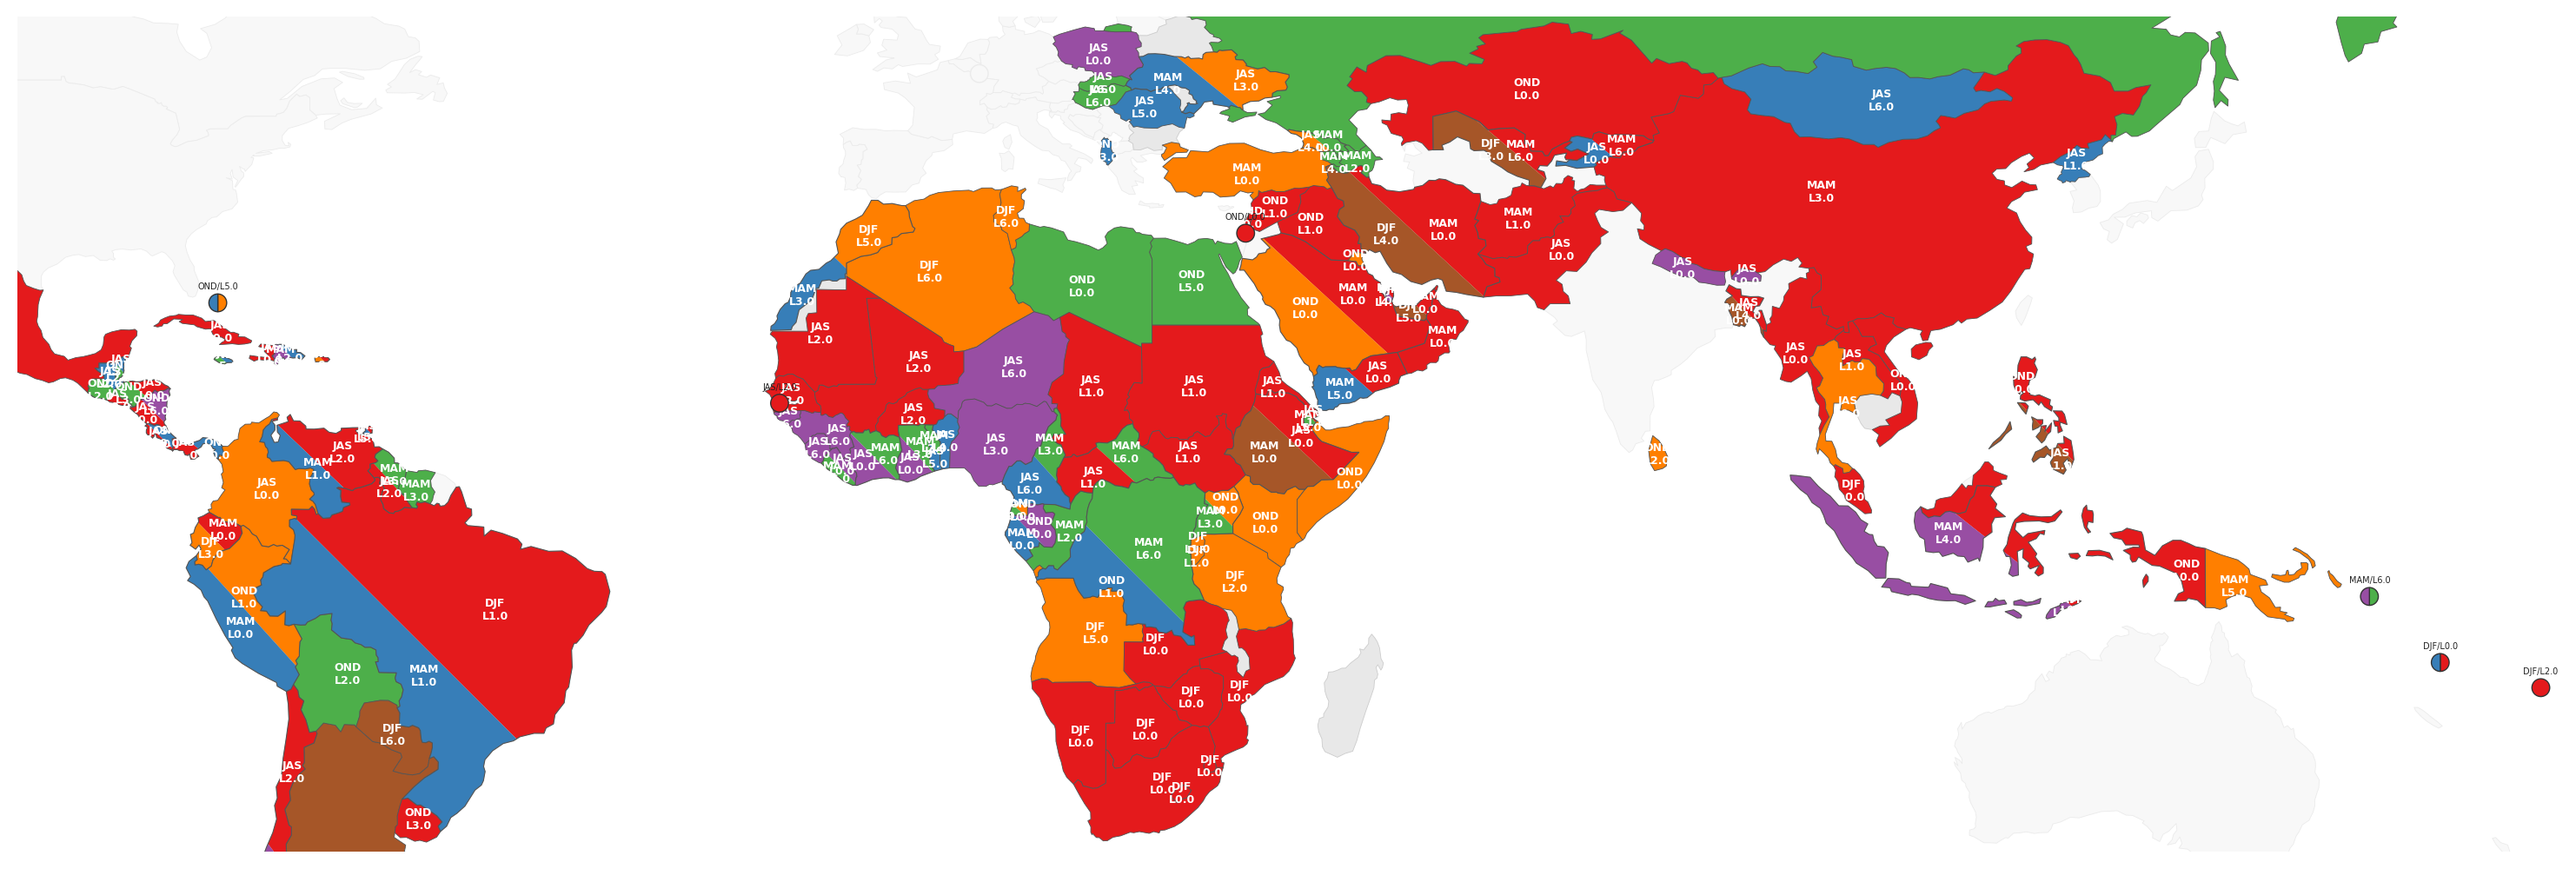
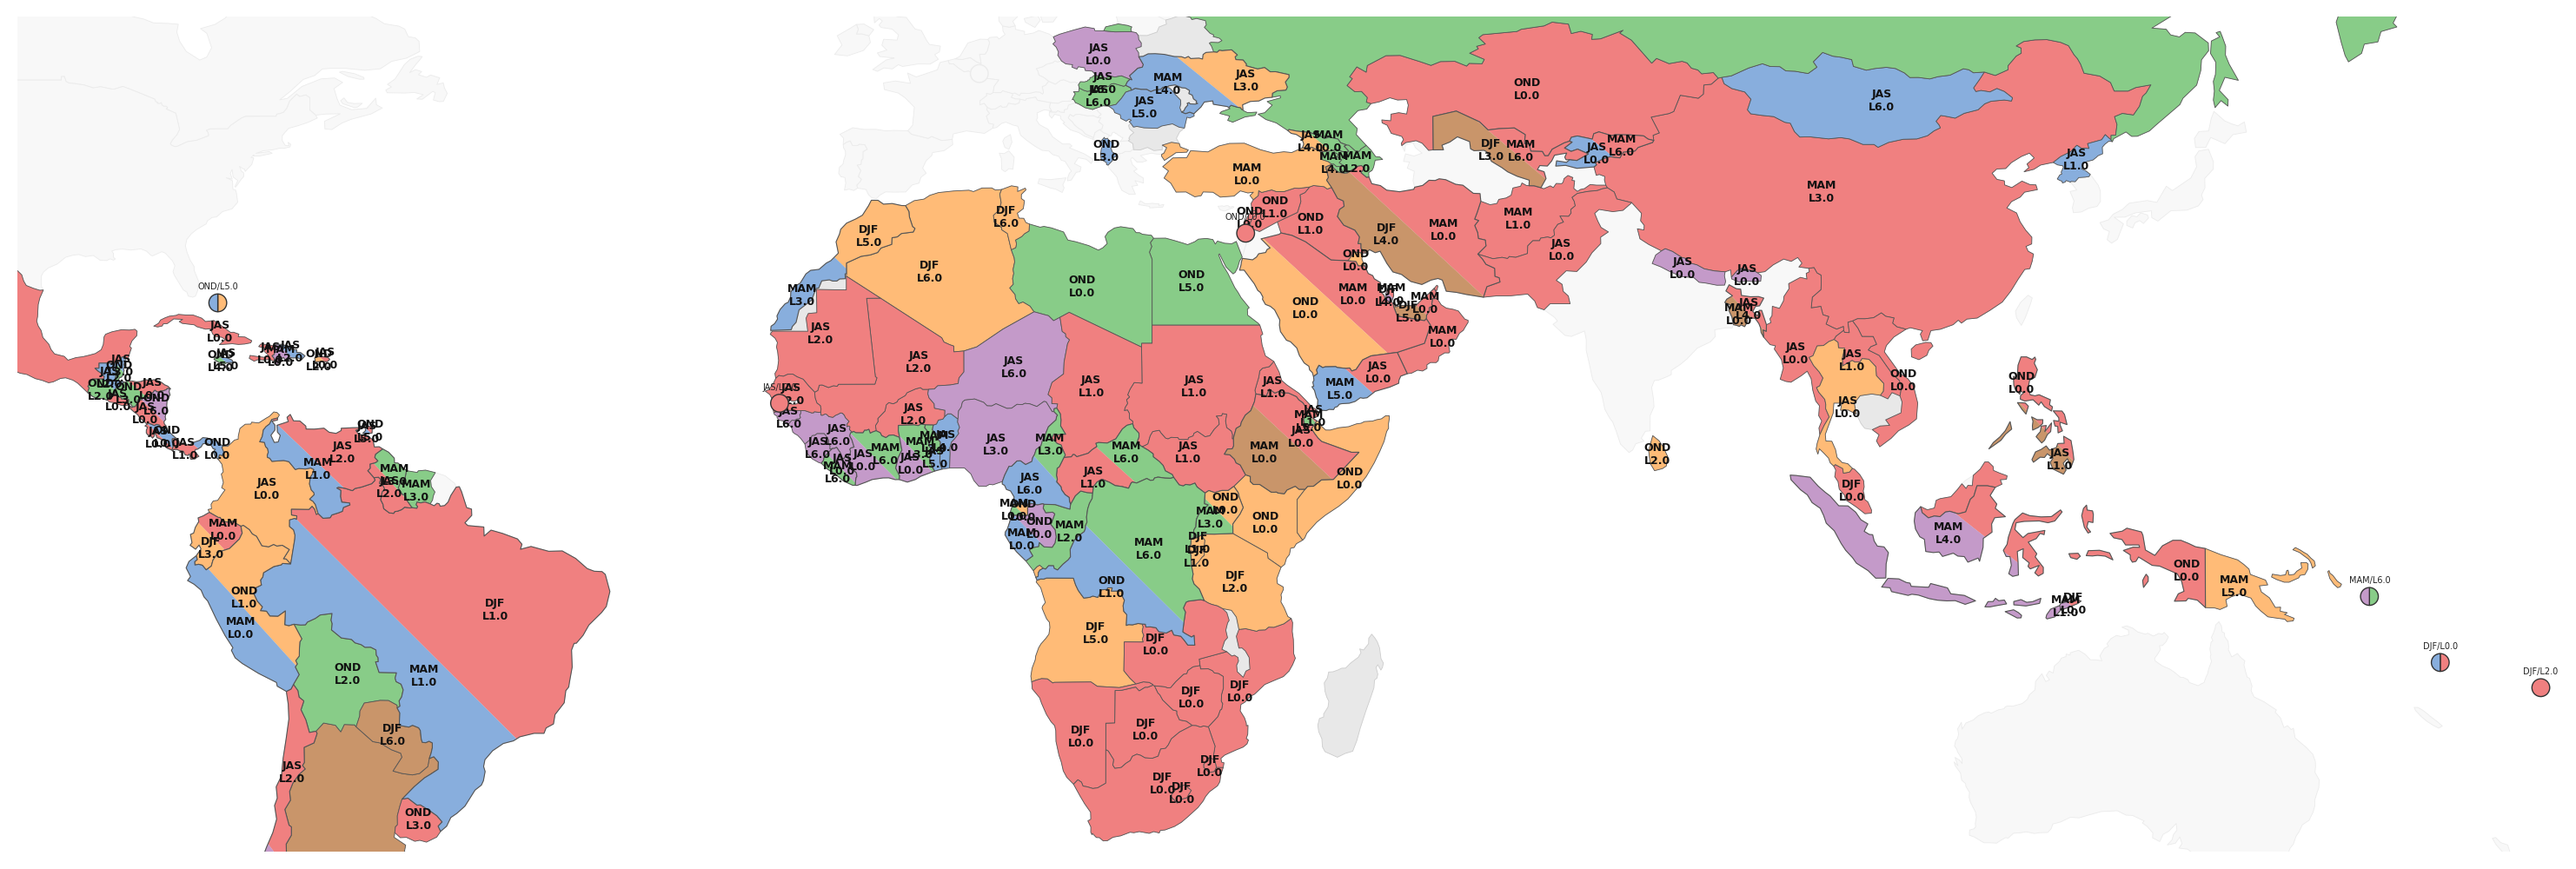
Dominant map: paler index colors, black text annotations

diff --git a/teleconnection_survey.py b/teleconnection_survey.py
@@ -145,14 +145,14 @@ _TS_WEAK_WARM    = "#F4A582"   # light salmon
 _TS_WEAK_COOL    = "#A6DBA0"   # light green
 _TS_STRONG_COOL  = "#1B7837"   # dark green
 
-# Categorical colors for the dominant-index map (ColorBrewer Set1)
+# Categorical colors for the dominant-index map (muted pastel variants)
 INDEX_COLORS = {
-    "nino34": "#E41A1C",
-    "dmi":    "#FF7F00",
-    "tna":    "#4DAF4A",
-    "tsa":    "#984EA3",
-    "amm":    "#377EB8",
-    "pdo":    "#A65628",
+    "nino34": "#F08080",
+    "dmi":    "#FFBB77",
+    "tna":    "#88CC88",
+    "tsa":    "#C49AC9",
+    "amm":    "#88AEDD",
+    "pdo":    "#C9956A",
 }
 
 def _ts_color(val: float, thresh: float) -> str:
@@ -954,7 +954,7 @@ def plot_dominant_index_map(
             c = row.geometry.representative_point()
             ax.annotate(f"{row['trimester1']}\nL{row['lag1']}",
                         (c.x, c.y), ha="center", va="center",
-                        fontsize=4.5, color="white", fontweight="bold")
+                        fontsize=4.5, color="#111", fontweight="bold")
 
     # Two-index countries: diagonal split
     for _, row in has_two.iterrows():
@@ -974,12 +974,12 @@ def plot_dominant_index_map(
             rp = upper.representative_point()
             ax.annotate(f"{row['trimester1']}\nL{row['lag1']}",
                         (rp.x, rp.y), ha="center", va="center",
-                        fontsize=4.5, color="white", fontweight="bold")
+                        fontsize=4.5, color="#111", fontweight="bold")
         if not lower.is_empty:
             rp = lower.representative_point()
             ax.annotate(f"{row['trimester2']}\nL{row['lag2']}",
                         (rp.x, rp.y), ha="center", va="center",
-                        fontsize=4.5, color="white", fontweight="bold")
+                        fontsize=4.5, color="#111", fontweight="bold")
 
     # Dot countries
     for _, row in g_dot.iterrows():
